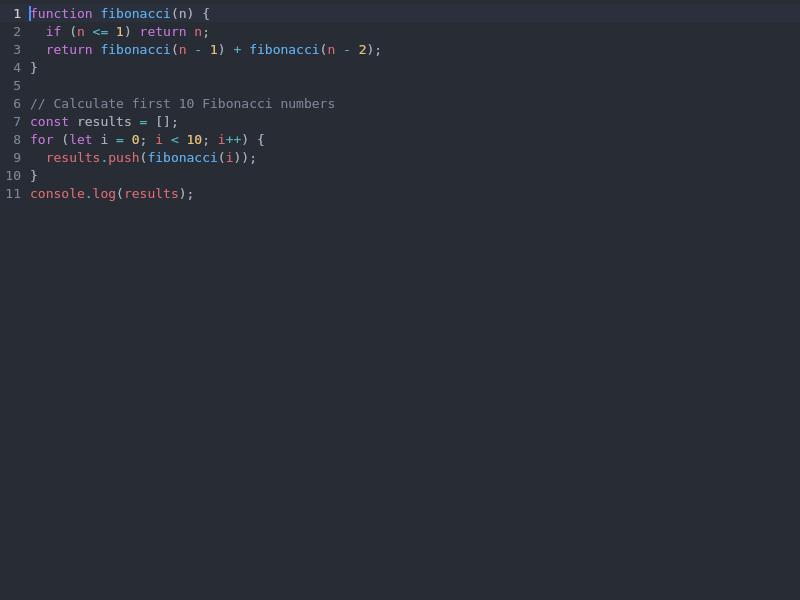
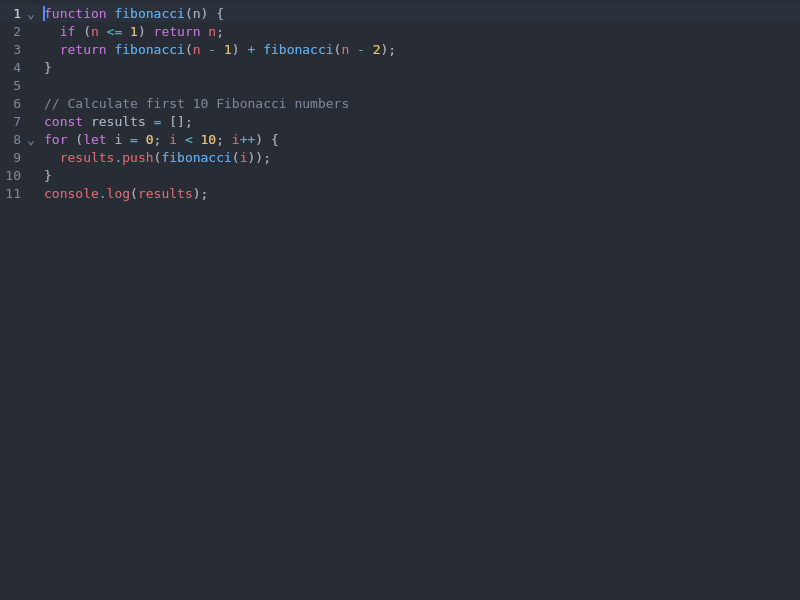
Fix fold gutter screenshots and add collapsed test
- Changed fold markers from filled triangles (▶/▼) to carets (›/⌄) for
  a cleaner appearance in the fold gutter
- Added `provide` to wire foldState decorations to the view's decorations
  facet so folded ranges are properly applied to the rendered content
- Fixed fold gutter marker detection to check the full line range instead
  of just the line start position
- Added ReplaceDecoration handling in DecorationApplication.buildColumnItems
  to skip folded lines and show fold placeholder text inline (with ellipsis)
- Added CollapsedScreenshotTest.kt for Compose screenshot testing of folded code
- Added reference-screenshots/scenarios/collapsed.html for Playwright reference
- Updated all reference screenshots (Playwright and Roborazzi) to reflect changes

Changed region(s): [[0.0312, 0.15, 0.4375, 0.27], [0.0312, 0.0, 0.5, 0.09], [0.0312, 0.3, 0.25, 0.33]]

diff --git a/view/src/commonMain/kotlin/com/monkopedia/kodemirror/view/DecorationApplication.kt b/view/src/commonMain/kotlin/com/monkopedia/kodemirror/view/DecorationApplication.kt
@@ -18,7 +18,9 @@
  */
 package com.monkopedia.kodemirror.view
 
+import androidx.compose.ui.graphics.Color
 import androidx.compose.ui.text.AnnotatedString
+import androidx.compose.ui.text.SpanStyle
 import com.monkopedia.kodemirror.state.EditorState
 import com.monkopedia.kodemirror.state.RangeSet
 import com.monkopedia.kodemirror.state.SpanIterator
@@ -108,6 +110,19 @@ fun buildColumnItems(
     val items = mutableListOf<ColumnItem>()
     val doc = state.doc
 
+    // Collect replace decorations (fold ranges) sorted by start position
+    data class ReplaceRange(val from: Int, val to: Int, val widget: WidgetType?)
+    val replaceRanges = mutableListOf<ReplaceRange>()
+    for (set in decorationSets) {
+        set.between(viewport.from, viewport.to) { from, to, value ->
+            if (value is ReplaceDecoration && from < to) {
+                replaceRanges.add(ReplaceRange(from, to, value.spec.widget))
+            }
+            null
+        }
+    }
+    replaceRanges.sortBy { it.from }
+
     // Collect block widgets indexed by document position
     val blockWidgetsBefore = mutableMapOf<Int, MutableList<WidgetDecoration>>()
     val blockWidgetsAfter = mutableMapOf<Int, MutableList<WidgetDecoration>>()
@@ -150,25 +165,81 @@ fun buildColumnItems(
     while (lineNum <= lastLine) {
         val line = doc.line(lineNum)
 
+        // Check if this line starts or is inside a replace range
+        val replace = replaceRanges.firstOrNull { it.from < line.to && it.to > line.from }
+        if (replace != null && line.from >= replace.from) {
+            // This line is entirely inside a replace range — skip it
+            lineNum++
+            continue
+        }
+
         // Emit block-before widgets
         blockWidgetsBefore[line.from]?.forEach { w ->
             items.add(ColumnItem.BlockWidgetItem(line.from, w, BlockType.WidgetBefore))
         }
 
-        // Emit the text line
-        val content = buildLineContent(line.from, line.to, line.text, decorationSets)
-        val lineDecos = lineDecsByLine[lineNum] ?: emptyList()
-        val inlineWidgets = inlineWidgetsByLine[lineNum] ?: emptyList()
-        items.add(
-            ColumnItem.TextLine(lineNum, line.from, line.to, content, lineDecos, inlineWidgets)
-        )
+        // Check if a replace range starts on this line
+        val replaceOnLine = replaceRanges.firstOrNull {
+            it.from >= line.from && it.from <= line.to
+        }
+        if (replaceOnLine != null) {
+            // Truncate line at replace start and append fold placeholder
+            val truncPos = replaceOnLine.from - line.from
+            val truncText = line.text.substring(0, truncPos.coerceAtMost(line.text.length))
+            val baseContent = buildLineContent(
+                line.from,
+                line.from + truncText.length,
+                truncText,
+                decorationSets
+            )
+            val content = if (replaceOnLine.widget != null) {
+                AnnotatedString.Builder().apply {
+                    append(baseContent)
+                    pushStyle(SpanStyle(color = Color.Gray))
+                    append("\u2026")
+                    pop()
+                }.toAnnotatedString()
+            } else {
+                baseContent
+            }
+            val lineDecos = lineDecsByLine[lineNum] ?: emptyList()
+            val inlineWidgets = inlineWidgetsByLine[lineNum] ?: emptyList()
+            items.add(
+                ColumnItem.TextLine(
+                    lineNum,
+                    line.from,
+                    line.from + truncText.length,
+                    content,
+                    lineDecos,
+                    inlineWidgets
+                )
+            )
+
+            // Skip ahead past the replace range to the line containing the end
+            val endLine = doc.lineAt(replaceOnLine.to.coerceAtMost(doc.length))
+            lineNum = endLine.number
+        } else {
+            // Normal line
+            val content = buildLineContent(line.from, line.to, line.text, decorationSets)
+            val lineDecos = lineDecsByLine[lineNum] ?: emptyList()
+            val inlineWidgets = inlineWidgetsByLine[lineNum] ?: emptyList()
+            items.add(
+                ColumnItem.TextLine(
+                    lineNum,
+                    line.from,
+                    line.to,
+                    content,
+                    lineDecos,
+                    inlineWidgets
+                )
+            )
+            lineNum++
+        }
 
         // Emit block-after widgets
         blockWidgetsAfter[line.from]?.forEach { w ->
             items.add(ColumnItem.BlockWidgetItem(line.from, w, BlockType.WidgetAfter))
         }
-
-        lineNum++
     }
 
     return items

diff --git a/view/src/jvmTest/kotlin/com/monkopedia/kodemirror/view/screenshots/CollapsedScreenshotTest.kt b/view/src/jvmTest/kotlin/com/monkopedia/kodemirror/view/screenshots/CollapsedScreenshotTest.kt
@@ -1,0 +1,102 @@
+/*
+ * Copyright 2026 Jason Monk
+ *
+ * Licensed under the Apache License, Version 2.0 (the "License");
+ * you may not use this file except in compliance with the License.
+ * You may obtain a copy of the License at
+ *
+ *     http://www.apache.org/licenses/LICENSE-2.0
+ *
+ * Unless required by applicable law or agreed to in writing, software
+ * distributed under the License is distributed on an "AS IS" BASIS,
+ * WITHOUT WARRANTIES OR CONDITIONS OF ANY KIND, either express or implied.
+ * See the License for the specific language governing permissions and
+ * limitations under the License.
+ *
+ * Originally based on CodeMirror 6 by Marijn Haverbeke, licensed under MIT.
+ * See NOTICE file for details.
+ */
+package com.monkopedia.kodemirror.view.screenshots
+
+import androidx.compose.runtime.remember
+import androidx.compose.ui.test.ExperimentalTestApi
+import androidx.compose.ui.test.onRoot
+import androidx.compose.ui.test.runDesktopComposeUiTest
+import com.monkopedia.kodemirror.language.foldGutter
+import com.monkopedia.kodemirror.language.foldState
+import com.monkopedia.kodemirror.state.EditorState
+import com.monkopedia.kodemirror.state.EditorStateConfig
+import com.monkopedia.kodemirror.state.ExtensionList
+import com.monkopedia.kodemirror.state.RangeSetBuilder
+import com.monkopedia.kodemirror.state.asDoc
+import com.monkopedia.kodemirror.view.Decoration
+import com.monkopedia.kodemirror.view.EditorView
+import com.monkopedia.kodemirror.view.ReplaceDecorationSpec
+import com.monkopedia.kodemirror.view.WidgetType
+import com.monkopedia.kodemirror.view.highlightActiveLine
+import com.monkopedia.kodemirror.view.lineNumbers
+import io.github.takahirom.roborazzi.captureRoboImage
+import org.junit.Test
+
+@OptIn(ExperimentalTestApi::class)
+class CollapsedScreenshotTest {
+
+    @Test
+    fun capture() = runDesktopComposeUiTest(width = 800, height = 600) {
+        setContent {
+            val state = remember {
+                EditorState.create(
+                    EditorStateConfig(
+                        doc = TestScenarios.SAMPLE_CODE.asDoc(),
+                        extensions = ExtensionList(
+                            listOf(
+                                lineNumbers,
+                                foldGutter(),
+                                highlightActiveLine,
+                                foldState.init { state ->
+                                    // Fold the fibonacci function body.
+                                    // Line 1: "function fibonacci(n) {"
+                                    // Line 4: "}"
+                                    val line1 = state.doc.line(1)
+                                    val openBrace = line1.text.indexOf('{')
+                                    val from = line1.from + openBrace + 1
+                                    val line4 = state.doc.line(4)
+                                    val to = line4.from
+                                    val builder = RangeSetBuilder<Decoration>()
+                                    builder.add(
+                                        from,
+                                        to,
+                                        Decoration.replace(
+                                            ReplaceDecorationSpec(
+                                                widget = FoldPlaceholderWidget()
+                                            )
+                                        )
+                                    )
+                                    builder.finish()
+                                },
+                                TestScenarios.jsLanguageExtensions(light = false)
+                            )
+                        )
+                    )
+                )
+            }
+            EditorView(state = state, onUpdate = {})
+        }
+        onRoot().captureRoboImage("screenshots/compose/collapsed.png")
+    }
+}
+
+private class FoldPlaceholderWidget : WidgetType() {
+    @androidx.compose.runtime.Composable
+    override fun Content() {
+        androidx.compose.foundation.text.BasicText(
+            text = "\u2026",
+            style = com.monkopedia.kodemirror.view.LocalEditorTheme.current
+                .contentTextStyle.copy(
+                    color = androidx.compose.ui.graphics.Color.Gray
+                )
+        )
+    }
+
+    override fun eq(other: WidgetType): Boolean = other is FoldPlaceholderWidget
+}

diff --git a/reference-screenshots/scenarios/collapsed.html b/reference-screenshots/scenarios/collapsed.html
@@ -1,0 +1,78 @@
+<!DOCTYPE html>
+<html>
+<head>
+  <meta charset="utf-8">
+  <title>Collapsed</title>
+  <style>
+    body { margin: 0; padding: 0; background: #282c34; }
+    #editor { width: 800px; height: 600px; }
+  </style>
+  <script type="importmap">
+    {
+      "imports": {
+        "codemirror": "https://esm.sh/*codemirror@6.0.1",
+        "@codemirror/state": "https://esm.sh/*@codemirror/state@6.4.1",
+        "@codemirror/view": "https://esm.sh/*@codemirror/view@6.34.1",
+        "@codemirror/language": "https://esm.sh/*@codemirror/language@6.10.6",
+        "@codemirror/commands": "https://esm.sh/*@codemirror/commands@6.7.1",
+        "@codemirror/search": "https://esm.sh/*@codemirror/search@6.5.8",
+        "@codemirror/autocomplete": "https://esm.sh/*@codemirror/autocomplete@6.18.4",
+        "@codemirror/lint": "https://esm.sh/*@codemirror/lint@6.8.4",
+        "@codemirror/lang-javascript": "https://esm.sh/*@codemirror/lang-javascript@6.2.2",
+        "@codemirror/theme-one-dark": "https://esm.sh/*@codemirror/theme-one-dark@6.1.2",
+        "@lezer/common": "https://esm.sh/*@lezer/common@1.2.3",
+        "@lezer/highlight": "https://esm.sh/*@lezer/highlight@1.2.1",
+        "@lezer/javascript": "https://esm.sh/*@lezer/javascript@1.4.21",
+        "@lezer/lr": "https://esm.sh/*@lezer/lr@1.4.2",
+        "crelt": "https://esm.sh/*crelt@1.0.6",
+        "style-mod": "https://esm.sh/*style-mod@4.1.2",
+        "w3c-keyname": "https://esm.sh/*w3c-keyname@2.2.8"
+      }
+    }
+  </script>
+</head>
+<body>
+  <div id="editor"></div>
+
+  <script type="module">
+    import { basicSetup, EditorView } from "codemirror";
+    import { javascript } from "@codemirror/lang-javascript";
+    import { oneDark } from "@codemirror/theme-one-dark";
+    import { foldEffect } from "@codemirror/language";
+
+    const doc = `function fibonacci(n) {
+  if (n <= 1) return n;
+  return fibonacci(n - 1) + fibonacci(n - 2);
+}
+
+// Calculate first 10 Fibonacci numbers
+const results = [];
+for (let i = 0; i < 10; i++) {
+  results.push(fibonacci(i));
+}
+console.log(results);`;
+
+    const view = new EditorView({
+      doc,
+      extensions: [
+        basicSetup,
+        javascript(),
+        oneDark,
+      ],
+      parent: document.getElementById("editor"),
+    });
+
+    // Fold the fibonacci function body (line 1, from opening { to closing })
+    // Find the opening brace position and the closing brace
+    const firstLine = view.state.doc.line(1);
+    const openBrace = firstLine.text.indexOf("{");
+    const from = firstLine.from + openBrace + 1;
+    const closingLine = view.state.doc.line(4);
+    const to = closingLine.from - 1;
+
+    view.dispatch({
+      effects: foldEffect.of({ from, to })
+    });
+  </script>
+</body>
+</html>

diff --git a/language/src/commonMain/kotlin/com/monkopedia/kodemirror/language/Fold.kt b/language/src/commonMain/kotlin/com/monkopedia/kodemirror/language/Fold.kt
@@ -37,6 +37,7 @@ import com.monkopedia.kodemirror.view.EditorView
 import com.monkopedia.kodemirror.view.KeyBinding
 import com.monkopedia.kodemirror.view.ReplaceDecorationSpec
 import com.monkopedia.kodemirror.view.WidgetType
+import com.monkopedia.kodemirror.view.decorations
 
 /** A range that can be folded. */
 data class FoldRange(val from: Int, val to: Int)
@@ -141,7 +142,8 @@ val foldState: StateField<DecorationSet> = StateField.define(
                 }
             }
             result
-        }
+        },
+        provide = { field -> decorations.from(field) }
     )
 )
 
@@ -320,11 +322,16 @@ fun foldGutter(): Extension {
                     cssClass = "cm-foldGutter",
                     lineMarker = { view, lineFrom ->
                         val state = view.state
+                        val line = state.doc.lineAt(lineFrom)
                         val folded = foldedRanges(state)
                         var hasFold = false
-                        folded.between(lineFrom, lineFrom) { _, _, _ ->
-                            hasFold = true
-                            false
+                        folded.between(lineFrom, line.to) { from, _, _ ->
+                            if (from >= lineFrom && from <= line.to) {
+                                hasFold = true
+                                false
+                            } else {
+                                true
+                            }
                         }
                         if (hasFold) {
                             FoldGutterMarker(folded = true)
@@ -349,7 +356,7 @@ private class FoldGutterMarker(val folded: Boolean) :
     @androidx.compose.runtime.Composable
     override fun Content(theme: com.monkopedia.kodemirror.view.EditorTheme) {
         androidx.compose.foundation.text.BasicText(
-            text = if (folded) "\u25B6" else "\u25BC",
+            text = if (folded) "\u203A" else "\u2304",
             style = theme.contentTextStyle.copy(
                 color = theme.gutterForeground
             )
